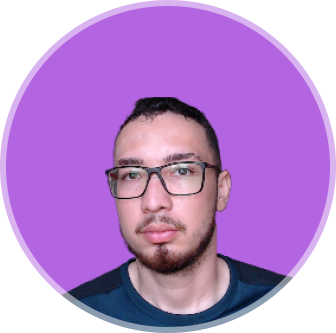
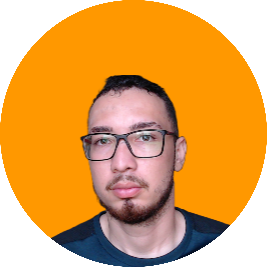
progresso

diff --git a/index.css b/index.css
@@ -4,16 +4,34 @@
     box-sizing: border-box;
 }
 
+:root {
+    --text-color: white;
+    --bg-url: url(./assets/assets/bg-mobile.jpg);
+    --stroke-color: rgba(255, 255, 255, 0.5);
+    --surface-color: rgba(255, 255, 255 0.05);
+    --surface-color-hover: rgba(0, 0, 0, 0.02);
+    --highlight-color: rgba(255, 255, 255, 0.2);
+    --switch-bg-url: url(./moon-stars.svg);
+}
+
+.light {
+    --text-color: black;
+    --bg-url: url(./assets/assets/bg-mobile-light.jpg);
+    --stroke-color: rgba(0, 0, 0, 0.5);
+    --surface-color: rgba(0, 0, 0, 0.05);
+    --surface-color-hover: rgba(0, 0, 0, 0.02);
+    --highlight-color: rgba(0, 0, 0, 0.1);
+    --switch-bg-url: url(./sun.svg);
+    
+}
+
 body {
-    background-image: url(./assets/assets/bg-mobile.jpg);
-    background-repeat: no-repeat;
-    background-position: top center;
-    background-size: cover;
+    background: var(--bg-url) no-repeat top center/cover;
 
 }
 body * {
     font-family: 'Inter', sans-serif;
-    color: white;
+    color: var(--text-color);
 }
 
 #container {
@@ -39,6 +57,42 @@ body * {
 line-height: 24px; /* 150% */
 margin-top: 8px;
 }
+
+#switch{
+    position: relative;
+    width: 64px;
+    margin: 4px auto;
+}
+
+#switch button{
+    width: 32px;
+    height: 32px;
+    background: white var(--switch-bg-url) no-repeat center;
+    border: 0;
+    border-radius: 50%;
+    position: absolute;
+    z-index: 1;
+    left: 0;
+    top: 50%;
+    transform: translateY(-50%);
+}
+
+.light #switch button{
+    right: 0;
+    left: initial;
+}
+
+#switch span{
+    display: block;
+    width: 64px;
+    height: 24px;
+    background: var(--surface-color);
+    border: 1px solid var(--stroke-color);
+    backdrop-filter: blur(4px);
+    -webkit-backdrop-filter: blur(4px);
+    border-radius: 9999px;
+}
+
 ul{
    display: flex;
    flex-direction: column;
@@ -51,8 +105,8 @@ ul li a {
     justify-content: center;
     align-items: center;
     padding: 16px 24px;
-    background-color: rgba(255, 255, 255, 0.1);
-    border: 1px solid rgba(255, 255, 255, 0.5);
+    background-color: var(--surface-color);
+    border: 1px solid var(--stroke-color);
     border-radius: 8px;
     backdrop-filter: blur(4px);
     text-decoration: none;
@@ -60,8 +114,8 @@ ul li a {
     transition: background 0.2s;
 }
 ul li a:hover {
-    background-color: rgba(255, 255, 255, 0.05);
-    border: 1.5px solid white;
+    background-color: var(--surface-color-hover);
+    border: 1.5px solid var(--text-color);
 }
 
 #social-links {
@@ -80,9 +134,15 @@ ul li a:hover {
     justify-content: center;
     padding: 16px;
     transition: background 0.2s;
+    border-radius: 50%;
 }
 
 #social-links a:hover{
-    background: rgba(255, 255, 255, 0.2);
-    border-radius: 50%;
+    background: var(--highlight-color);
+    
+}
+footer {
+    padding: 24px;
+    text-align: center;
+    font-size: 14px;
 }

diff --git a/index.html b/index.html
@@ -16,6 +16,12 @@
             <img src="assets/assets/avatar.png" alt="Foto de evanio">
             <p> @evanio.matias.1</p>
         </div>
+        <div id="switch" onclick="toggleMode()">
+            <button>
+
+            </button>
+            <span></span>
+        </div>
         <ul>
             <li>
                 <a href="#">Increver-se no NLW</a>
@@ -44,8 +50,14 @@
                 <ion-icon name="logo-linkedin"></ion-icon>
             </a>
         </div>
+        <footer>
+            Feito com ♥ pela <a href="https://app.rocketseat.com.br/" target="_blank">Rocketseat</a>
+        </footer>
     </div>
     <script type="module" src="https://unpkg.com/ionicons@7.1.0/dist/ionicons/ionicons.esm.js"></script>
 <script nomodule src="https://unpkg.com/ionicons@7.1.0/dist/ionicons/ionicons.js"></script>
+
+<script src="script.js"></script>
+
 </body>
 </html>

diff --git a/script.js b/script.js
@@ -1,0 +1,23 @@
+function toggleMode() {
+    const html = document.documentElement
+    if(html.classList.contains('light')){
+        html.classList.remove('light')
+    }
+    else{
+        html.classList.add('light')
+    }
+    const img = document.querySelector("#profile img")
+
+    if(html.classList.contains("light")) {
+        img.setAttribute("src", "assets/assets/avatar-light.png")
+    }
+    else{
+        img.setAttribute("src", "assets/assets/avatar.png")
+    }
+
+
+
+ 
+  
+
+}
